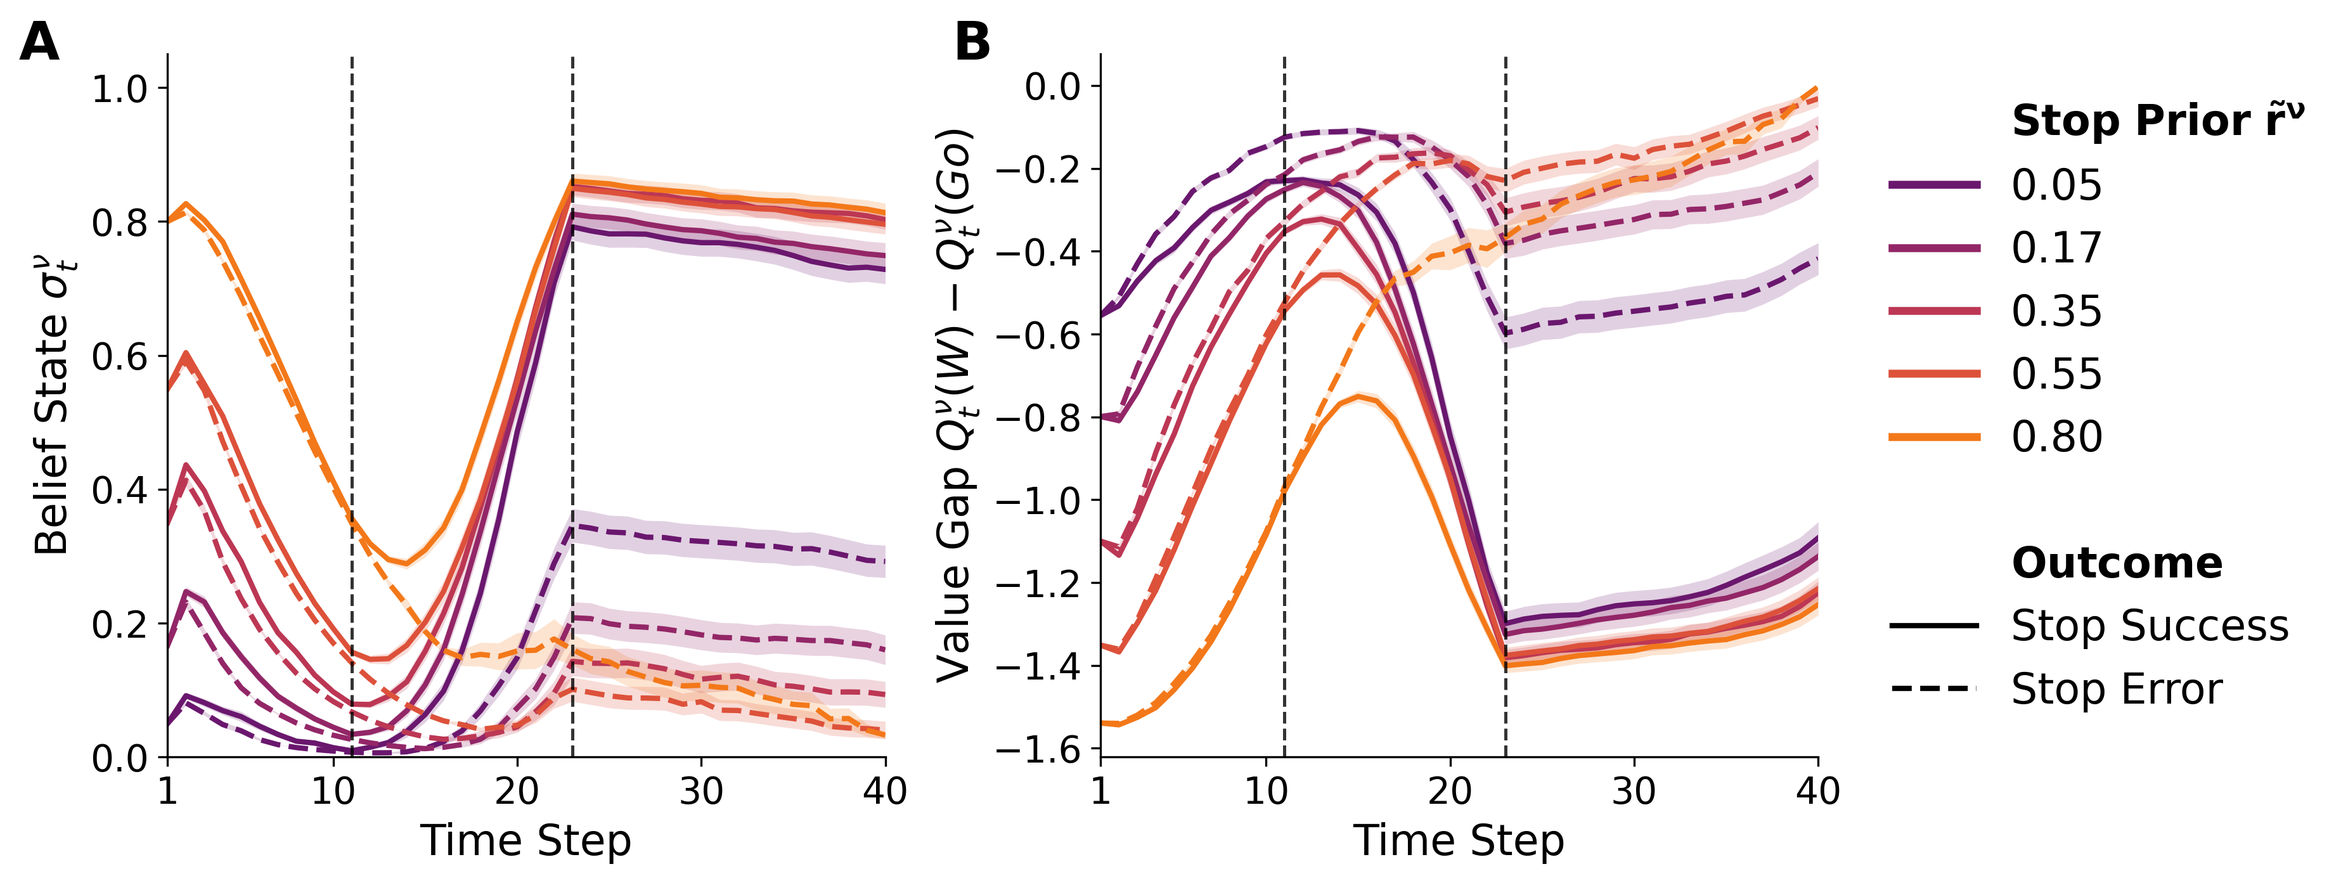
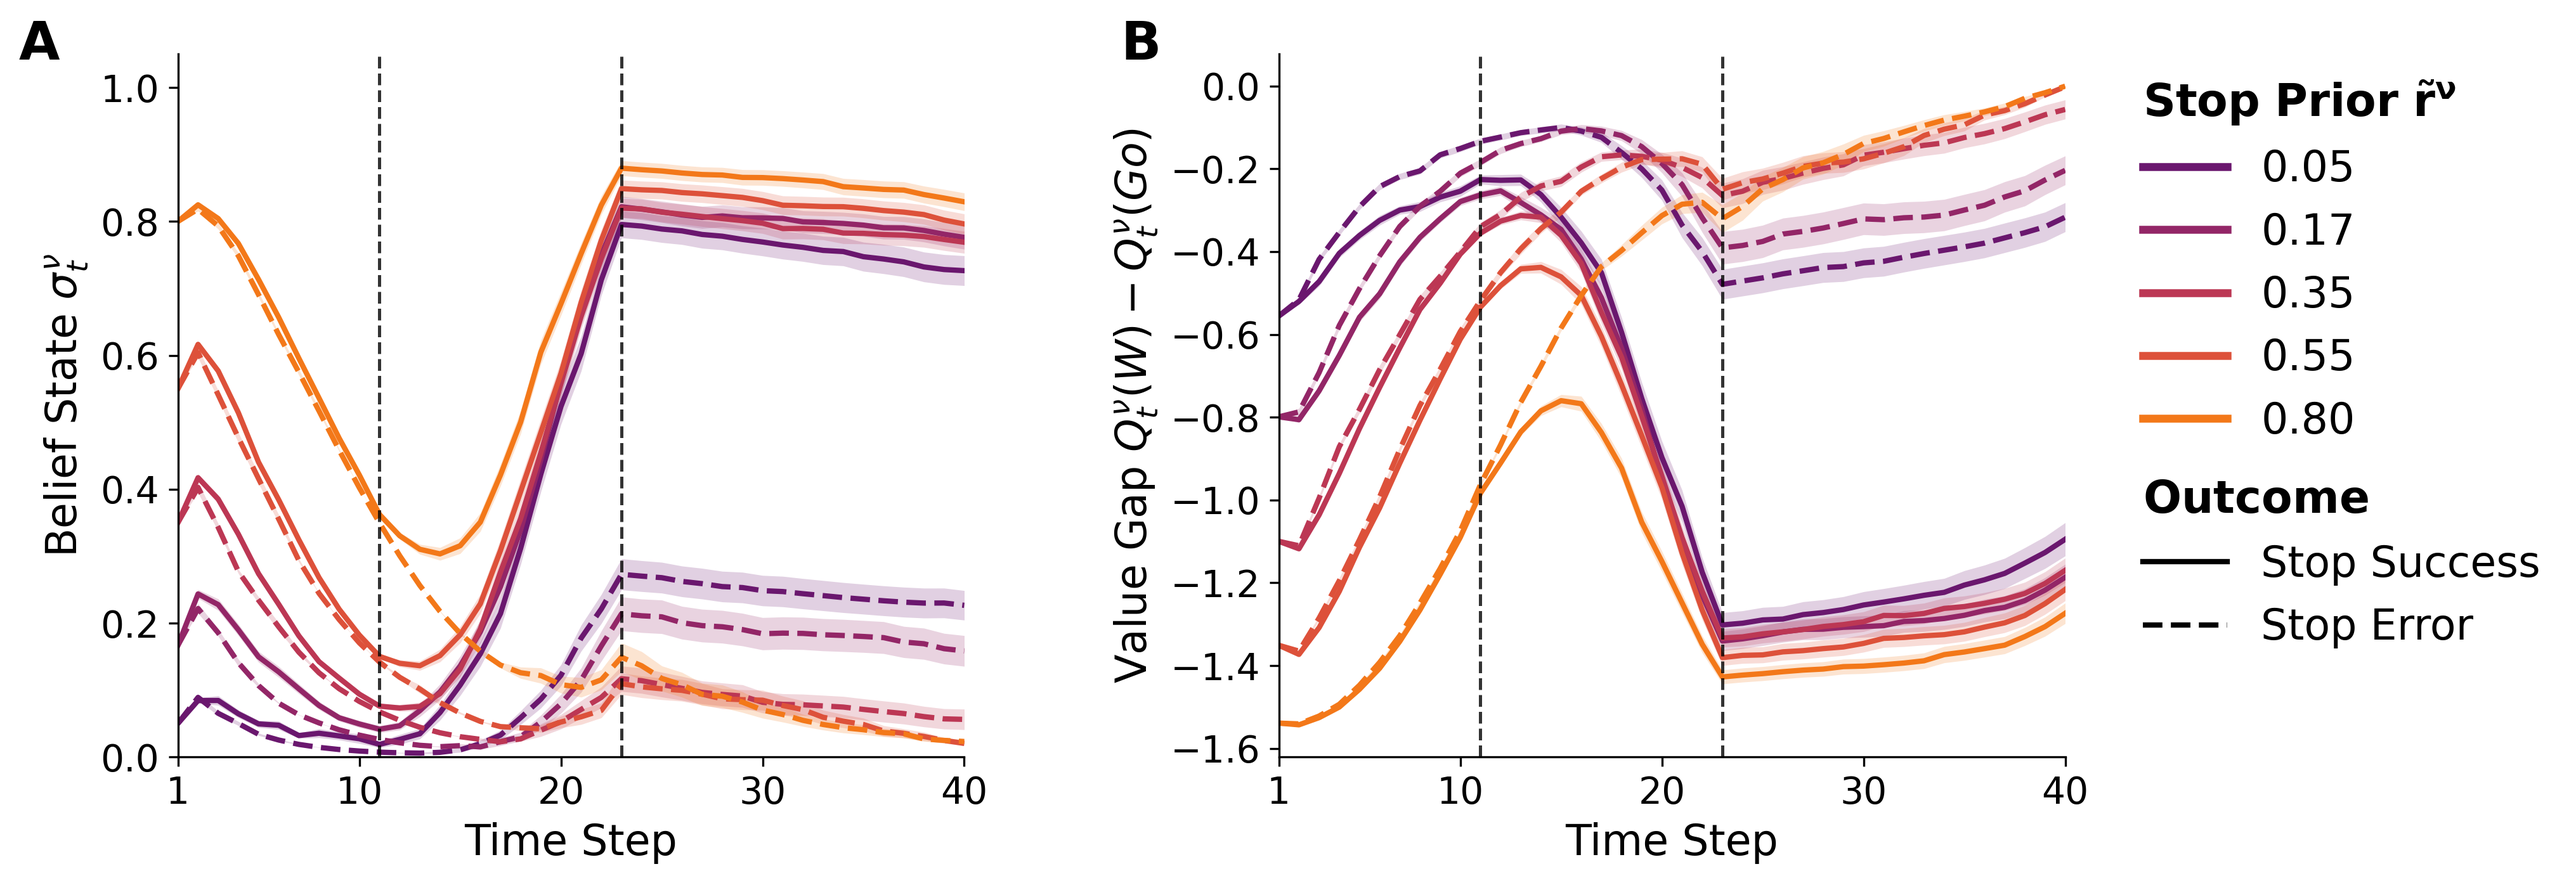
up

diff --git a/core/plotting.py b/core/plotting.py
@@ -1122,8 +1122,8 @@ def plot_rate_timecourses(
     # ==========================================
     # 2. PLOTTING
     # ==========================================
-    fig, axes = plt.subplots(1, 2, figsize=(14*0.8, 6*0.8))
-    plt.subplots_adjust(wspace=0.3)
+    fig, axes = plt.subplots(1, 2, figsize=(16*0.8, 6*0.8))
+    plt.subplots_adjust(wspace=0.4)
 
     x_vals = np.arange(1, t_max + 1)
     
@@ -1182,29 +1182,48 @@ def plot_rate_timecourses(
                  fontsize=style['panel_label_size'], fontweight='bold', va='top', ha='right')
 
     # Legend Construction
-    legend_elements = []
-    # Title for Rate Color
-    legend_elements.append(Line2D([0], [0], color='w', label=r'$\bf{Stop\ Prior\ \tilde{r}^\nu}$'))
+    # 1. Create Handle List for RATES
+    rate_handles = []
     for r, col in zip(rates, rate_colors):
-        legend_elements.append(Line2D([0], [0], color=col, lw=3, label=f"{r:.2f}"))
+        rate_handles.append(Line2D([0], [0], color=col, lw=3, label=f"{r:.2f}"))
     
-    # Spacer
-    legend_elements.append(Line2D([0], [0], color='w', label=' '))
-    
-    # Title for Outcome Style
-    legend_elements.append(Line2D([0], [0], color='w', label=r'$\bf{Outcome}$'))
-    
+    # 2. Create Handle List for OUTCOMES
+    outcome_handles = []
     if trial_type == "stop":
-        legend_elements.append(Line2D([0], [0], color='k', ls=styles["A"]["ls"], lw=2, label="Stop Success"))
-        legend_elements.append(Line2D([0], [0], color='k', ls=styles["B"]["ls"], lw=2, label="Stop Error"))
+        outcome_handles.append(Line2D([0], [0], color='k', ls=styles["A"]["ls"], lw=2, label="Stop Success"))
+        outcome_handles.append(Line2D([0], [0], color='k', ls=styles["B"]["ls"], lw=2, label="Stop Error"))
     else:
-        legend_elements.append(Line2D([0], [0], color='k', ls=styles["A"]["ls"], lw=2, label="Go Success"))
-        legend_elements.append(Line2D([0], [0], color='k', ls=styles["B"]["ls"], lw=2, label="Go Error"))
-        legend_elements.append(Line2D([0], [0], color='k', ls=styles["M"]["ls"], lw=2, label="Go Miss"))
+        outcome_handles.append(Line2D([0], [0], color='k', ls=styles["A"]["ls"], lw=2, label="Go Success"))
+        outcome_handles.append(Line2D([0], [0], color='k', ls=styles["B"]["ls"], lw=2, label="Go Error"))
+        outcome_handles.append(Line2D([0], [0], color='k', ls=styles["M"]["ls"], lw=2, label="Go Miss"))
 
-    # Place Legend outside
-    axes[1].legend(handles=legend_elements, loc='center left', bbox_to_anchor=(1.05, 0.5), 
-                   frameon=False, fontsize=style['legend_fontsize'])
+    # 3. Add First Legend (Rates) - Top Right
+    leg1 = axes[1].legend(
+        handles=rate_handles, 
+        title=r'$\bf{Stop\ Prior\ \tilde{r}^\nu}$',
+        loc='upper left', 
+        bbox_to_anchor=(1.05, 1.02),  # Position: Top aligned
+        frameon=False, 
+        fontsize=style['legend_fontsize'],
+        title_fontsize=style['legend_fontsize'] + 1
+    )
+    # Force Left Alignment of Title and Handles
+    leg1._legend_box.align = "left" 
+    
+    # Add leg1 to the plot so it persists when we add leg2
+    axes[1].add_artist(leg1)
+
+    # 4. Add Second Legend (Outcomes) - Below the first
+    leg2 = axes[1].legend(
+        handles=outcome_handles, 
+        title=r'$\bf{Outcome}$',
+        loc='upper left', 
+        bbox_to_anchor=(1.05, 0.45), # Position: Shifted down
+        frameon=False, 
+        fontsize=style['legend_fontsize'],
+        title_fontsize=style['legend_fontsize'] + 1
+    )
+    leg2._legend_box.align = "left"
 
     if saveto:
         fig.savefig(saveto, dpi=300, bbox_inches='tight')
